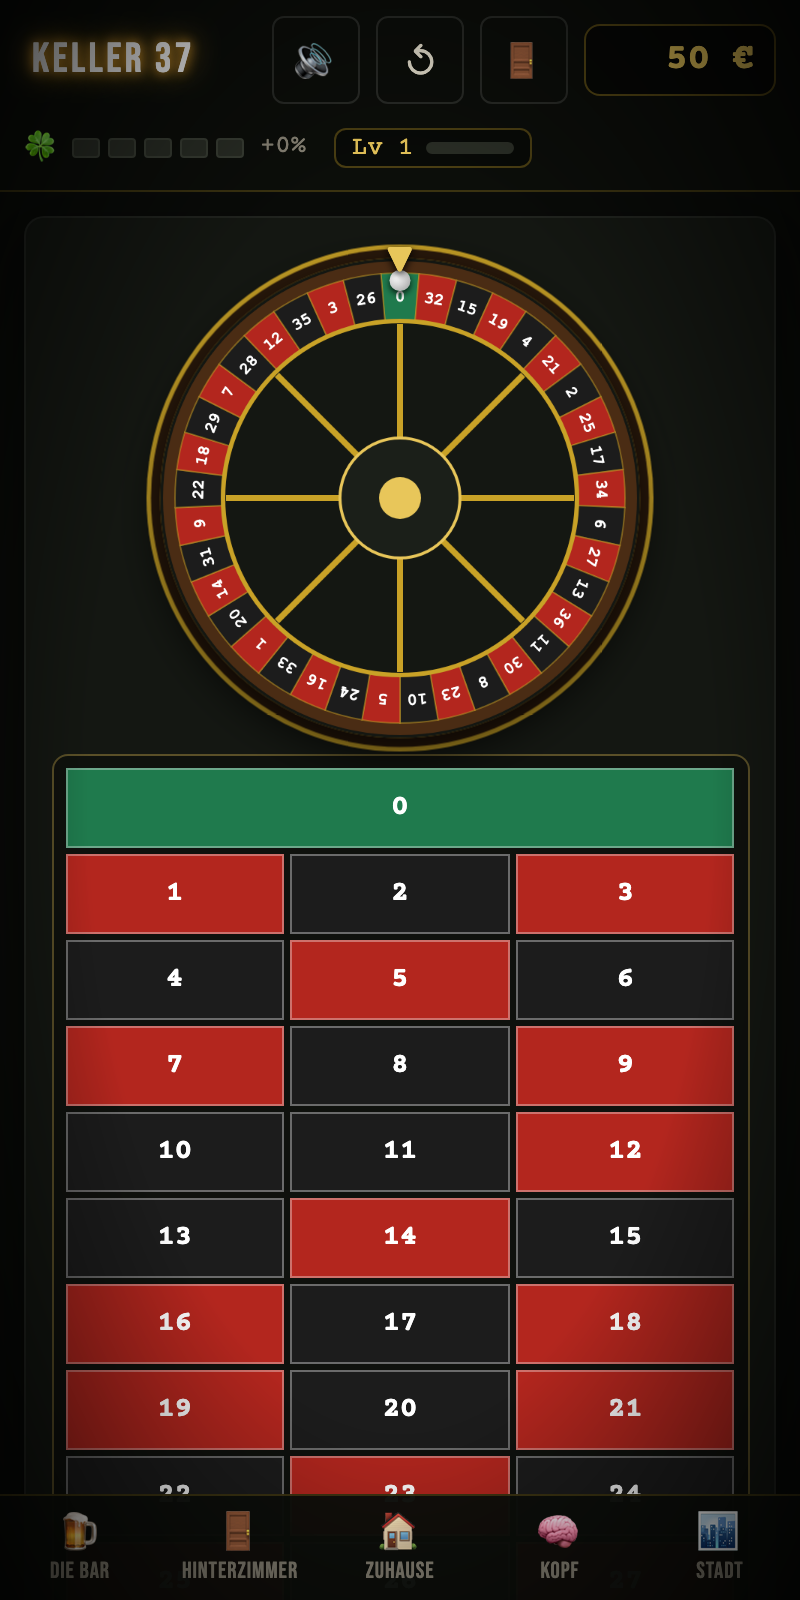
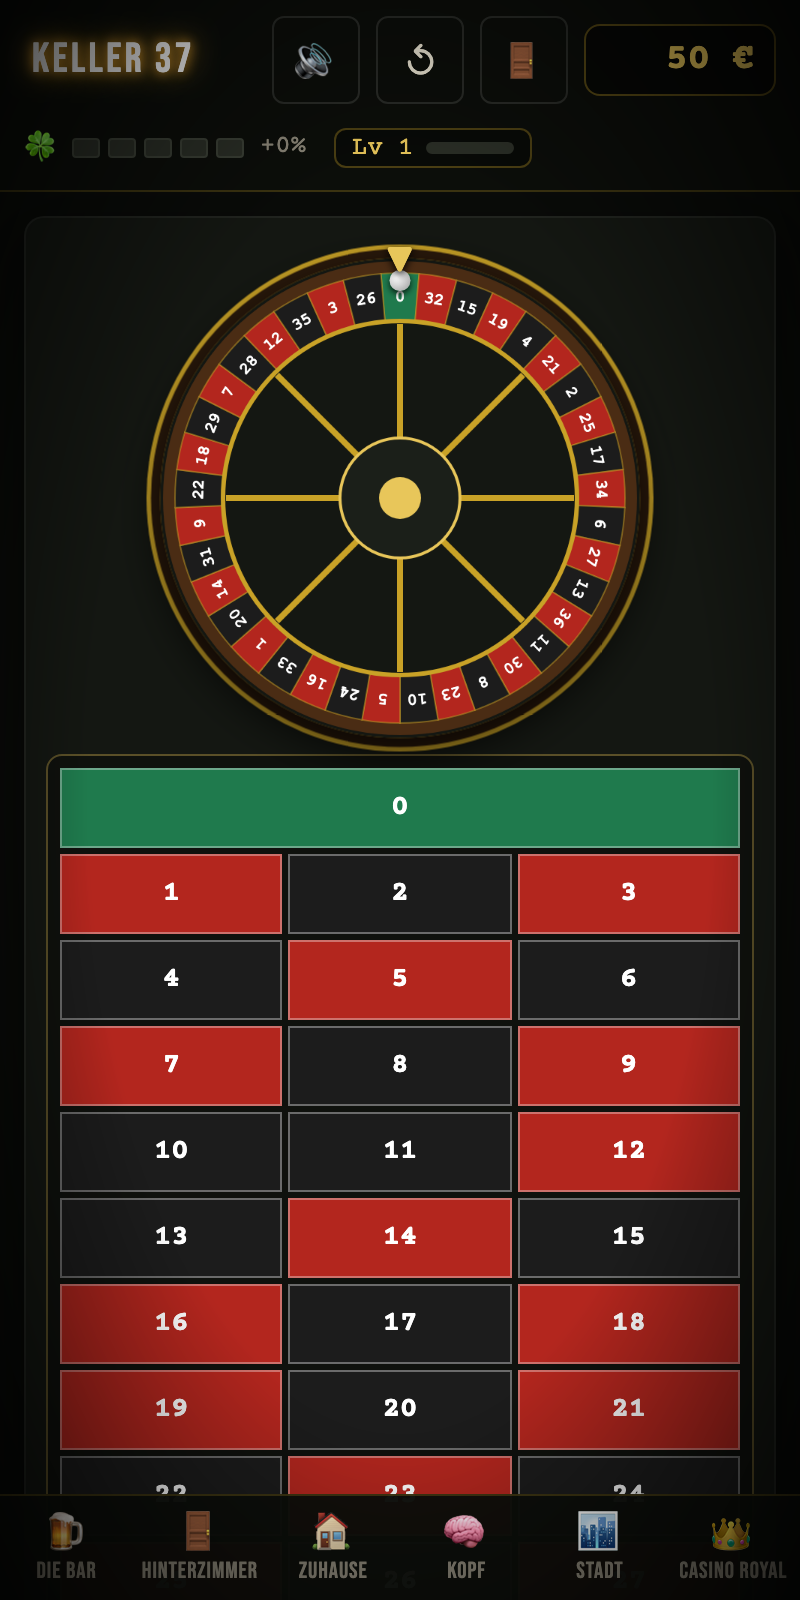
test(royal): Playtest-Szenario Art-déco-Paket, Zonen-Check, Screenshots; docs: README

diff --git a/tests/playtest-story.py b/tests/playtest-story.py
@@ -1594,6 +1594,92 @@ async def _scenario_perks_body(cdp):
     record("insider: Mechaniker zeigt nach Niete Festhalten-Buttons", holds == 3, "holds=%s" % holds)
 
 
+async def scenario_royal_look(cdp):
+    """Art-deco-Paket: Zone + Vorhang beim Betreten/Verlassen, Fassade in drei Zustaenden,
+    Kater-HUD, Freispiel-Banner, Bankrott-Blackout, Goldregen."""
+    # Fassade ohne Auto
+    await cdp.navigate(URL_BASE + "?fresh&mode=free&screen=stadt")
+    await asyncio.sleep(0.8)
+    await cdp.inject_helpers()
+    await cdp.eval("localStorage.removeItem('keller37.meta')", await_promise=False)
+    f = await cdp.eval("(function(){ const f=document.querySelector('.facade'); return f && {locked: f.classList.contains('locked'), sign: f.querySelector('.brass-sign').textContent, doorman: !!f.querySelector('.doorman')}; })()", await_promise=False) or {}
+    record("fassade: ohne Auto gesperrt mit Parkservice-Schild", f.get("locked") and "Parkservice" in (f.get("sign") or "") and not f.get("doorman"), f)
+    # Fassade mit Auto + Zone beim Betreten
+    await cdp.eval("State.s.car = 'audiA3'; State.s.balance = 5000; State.s.flags.royalSeen = true; State.save(); Stadt.render();", await_promise=False)
+    f = await cdp.eval("(function(){ const f=document.querySelector('.facade'); return {locked: f.classList.contains('locked'), sign: f.querySelector('.brass-sign').textContent}; })()", await_promise=False) or {}
+    record("fassade: mit Auto offen, Schild Eintritt 100", not f.get("locked") and "100" in (f.get("sign") or ""), f)
+    zone_before = await cdp.eval("document.body.dataset.zone", await_promise=False)
+    await cdp.eval("document.querySelector('.facade').click()", await_promise=False)
+    await asyncio.sleep(0.15)
+    fade_on = await cdp.eval("document.querySelector('#zonefade').classList.contains('on')", await_promise=False)
+    await cdp.wait_for("UI.current && UI.current.id === 'royal' && !UI.busy", timeout=4.0)
+    zone_after = await cdp.eval("document.body.dataset.zone", await_promise=False)
+    sub = await cdp.eval("getComputedStyle(document.querySelector('#brandSub')).display", await_promise=False)
+    record("zone: Vorhang beim Betreten, Zone royal, Untertitel sichtbar", zone_before == "keller" and fade_on is True and zone_after == "royal" and sub == "block",
+           "before=%s fade=%s after=%s sub=%s" % (zone_before, fade_on, zone_after, sub))
+    portals = await cdp.eval("document.querySelectorAll('.portal').length", await_promise=False)
+    record("lobby: drei Portale", portals == 3, "portals=%s" % portals)
+    # Mega Seven: Freispiel-Banner + Gewinnlinie
+    await cdp.eval("UI.show('megaslots')")
+    mega = await cdp.eval("""(async function(){
+      /* Gewinnlinie 🍒×3 (Reihe 0) + 3 Scatter ⭐ (Reihe 2, Walzen 0-2): sichere Freispiele + eine
+         Gewinnlinie, aber Auszahlung (40 €) bleibt weit unter RoyalRules.GUEST_WIN (5000) -- eine
+         5er-Reihe 7⃣ (wie ursprünglich hier verdrahtet) loest sonst Royal.onWin()/Cutscene('royal.guest')
+         aus, die auf einen Klick wartet und den Test aufhaengt. */
+      RoyalRules.megaRoll = function(){ return [['🍒','💎','⭐'],['🍒','BAR','⭐'],['🍒','🔔','⭐'],['BAR','🍒','7⃣'],['💎','7⃣','BAR']]; };
+      RoyalRules.megaLuckOverride = function(g){ return g; };
+      document.querySelector('#megaBet').value = '100';
+      await MegaSlots.spin();
+      return { banner: document.querySelector('#megaFree').classList.contains('show'), free: MegaSlots.freeLeft,
+               lines: document.querySelectorAll('#megaLinesSvg polyline').length, cls: document.querySelector('.mega-machine').classList.contains('free') };
+    })()""")
+    record("mega: Freispiel-Banner und goldene Gewinnlinie", mega and mega.get("banner") and mega.get("free", 0) > 0 and mega.get("lines", 0) >= 1 and mega.get("cls"), mega)
+    # Glücksrad: Bankrott -> Blackout-Klasse + Sylvie-Toast
+    # Die Blackout-Klasse liegt nur zwischen dem 4.6s-Dreh-Wait und dem 900ms-Timeout danach an
+    # (~4.6-5.5s); ein einzelner fester sleep(4.8) traf dieses Fenster unter Last (viele vorige
+    # Szenarien im selben Tab) nicht zuverlässig -- daher wird gepollt statt einmalig geprueft.
+    await cdp.eval("UI.show('wheel')")
+    await cdp.eval("""(function(){
+      RoyalRules.wheelSpin = function(){ return 0; };
+      RoyalRules.wheelLuckOverride = function(i){ return i; };
+      document.querySelector('#wheelBet').value = '100';
+      window.__wheelSpin = Wheel.spin();
+    })()""", await_promise=False)
+    black = await cdp.wait_for("document.querySelector('.wheel-panel').classList.contains('blackout')", timeout=8.0)
+    toast = await cdp.eval("document.querySelector('#toasts').textContent.includes('Das Haus dankt')", await_promise=False)
+    seg = await cdp.eval("document.querySelector('.wheel .seg.bust') !== null", await_promise=False)
+    await cdp.eval("window.__wheelSpin", timeout=10)
+    wheel = {"black": black, "toast": toast, "seg": seg}
+    record("wheel: Bankrott dunkelt ab, Sylvie-Toast, Bust-Segmente", wheel and wheel.get("black") and wheel.get("toast") and wheel.get("seg"), wheel)
+    # Goldregen + zurueck in die Stadt = Zone keller
+    rain = await cdp.eval("Royal.goldRain(); document.querySelectorAll('.gold-drop').length", await_promise=False)
+    record("royal: Goldregen erzeugt Partikel", (rain or 0) >= 12, "drops=%s" % rain)
+    await cdp.eval("UI.show('royal')")
+    await cdp.click("#royalLeave")
+    await cdp.wait_for("UI.current && UI.current.id === 'stadt' && !UI.busy", timeout=4.0)
+    zone_back = await cdp.eval("document.body.dataset.zone", await_promise=False)
+    record("zone: zurueck in die Stadt = keller", zone_back == "keller", "zone=%s" % zone_back)
+    # Kater-HUD + Zitter + Tuersteher
+    await cdp.navigate(URL_BASE + "?fresh&story=kater&prev=doc&day=5")
+    await asyncio.sleep(1.2)
+    await cdp.inject_helpers()
+    await cdp.advance_cutscene(max_steps=30)
+    hud = await cdp.eval("""(function(){
+      Story.s.vars.leber = 25; Story.s.vars.pegel = 2; Story.s.vars.deckel = 250; Story.s.flags.zitter = true; State.s.car = 'audiA3'; State.save(); UI.renderWallet();
+      const bar = document.querySelector('.hud-leber .fill'); const kr = document.querySelectorAll('.hud-pegel .krug.on').length;
+      return { width: bar && bar.style.width, danger: !!document.querySelector('.hud-leber.danger'), kruege: kr,
+               marks: (document.querySelector('.hud-deckel .coaster') || {}).textContent, zitter: document.body.classList.contains('zitter'),
+               note: document.querySelector('#notes').textContent.includes('Zittern') };
+    })()""", await_promise=False) or {}
+    record("kater-hud: Leber 25 rot, 2 Kruege, 5 Striche, Zittern", hud.get("width") == "25%" and hud.get("danger") and hud.get("kruege") == 2 and hud.get("zitter") and hud.get("note") and len(hud.get("marks") or "") >= 1, hud)
+    # Nach dem Intro laeuft der Tag-1-Morgen (einrichten/niereWeg) noch fire-and-forget bis zur
+    # Pinnwand (UI.busy bleibt bis dahin true) -- UI.show() ist ein No-Op solange busy, also erst warten
+    await cdp.wait_for("!UI.busy && !__pt.cutsceneActive()", timeout=5.0)
+    await cdp.eval("UI.show('stadt')")
+    door = await cdp.eval("(function(){ const f=document.querySelector('.facade'); return f && {gated: f.classList.contains('gated'), doorman: !!f.querySelector('.doorman'), txt: (f.querySelector('.doorman')||{}).textContent}; })()", await_promise=False) or {}
+    record("fassade: Zitter-Tag zeigt Tuersteher", door.get("gated") and door.get("doorman") and "zittern" in (door.get("txt") or "").lower(), door)
+
+
 async def main():
     cdp = CDP()
     cdp.launch(mobile=MOBILE)
@@ -1616,6 +1702,7 @@ async def main():
         await scenario_free_sandbox_unchanged(cdp)
         await scenario_stadt_shop(cdp)
         await scenario_royal_free(cdp)
+        await scenario_royal_look(cdp)
         await scenario_kater(cdp)
         await scenario_mugging(cdp)
         await scenario_story_stadt(cdp)

diff --git a/tests/mobile-check.py b/tests/mobile-check.py
@@ -118,6 +118,14 @@ async def main():
         """, await_promise=False) or {}
         record("tabs: alle mit Icon, eine Zeile, >= 52 px", t.get("n", 0) >= 4 and t.get("icons") == t.get("n") and t.get("oneRow") and t.get("h", 0) >= 52, t)
 
+        # Zone: Royal-Screens setzen body[data-zone=royal], Keller-Screens keller
+        zones = {}
+        for sc in ["hub", "royal", "craps", "megaslots", "wheel", "stadt"]:
+            await cdp.navigate(URL + "?fresh&mode=free&screen=" + sc, wait=1.2)
+            zones[sc] = await cdp.eval("document.body.dataset.zone", await_promise=False)
+        record("zone: Royal-Screens royal, Keller-Screens keller",
+               all(zones[k] == "royal" for k in ["royal", "craps", "megaslots", "wheel"]) and zones["hub"] == "keller" and zones["stadt"] == "keller", zones)
+
         # Story: Pinnwand + Tagesleiste
         await cdp.navigate(URL + "?fresh&story=schuld&day=1", wait=2.0)
         await cdp.inject_helpers()

diff --git a/README.md b/README.md
@@ -11,7 +11,8 @@ Ein satirisches Casino-Lebenssimulations-Spiel in einer einzigen HTML-Datei. Fü
 - **Kredite:** Bank (8 % Zinsen pro Spin, Limit 3.000 €, nur ein Kredit auf einmal) oder Don Vito (5 Spins Frist, danach der Doc).
 - **Anlagen:** Festgeld +8 % nach 6 Spins (10 % Risiko), Aktien +100 % nach 2 Spins (85 %), Trickbetrug +50 % nach 10 Spins (55 %) – je Sorte eine laufende Anlage.
 - **Stadt:** Autohaus (Audi-Linie senkt das Überfallrisiko und erhöht die Fluchtchance, Mercedes-Linie hebt Bank-Limit und senkt die Zinsen) und INTERSPORT (Laufschuhe verbessern die Flucht, bringen mehr Zeit/Lohn beim Postboten und helfen bei den Job-Minispielen). Ein neues Auto nimmt das alte mit 50 % seines Preises in Zahlung, Schuhe gibt es nur zum vollen Preis.
-- **Casino Royal:** am Ende der Straße, nur mit Auto (Parkservice). Eintritt 100 € – bis zum ersten Einzelgewinn ab 5.000 €, dann bist du Gast des Hauses. Drei Tische mit höheren Einsätzen: **Mega Seven** (5 Walzen, 5 Linien, Freispiele ×2), **Craps** (Pass Line und Field, jeder Wurf ein Spin) und das **Glücksrad** (24 Felder, ×10 bis Bankrott). Madame Sylvie sieht alles.
+- **Casino Royal:** am Ende der Straße, nur mit Auto (Parkservice). Eintritt 100 € – bis zum ersten Einzelgewinn ab 5.000 €, dann bist du Gast des Hauses. Drei Tische mit höheren Einsätzen: **Mega Seven** (5 Walzen, 5 Linien, Freispiele ×2), **Craps** (Pass Line und Field, jeder Wurf ein Spin) und das **Glücksrad** (24 Felder, ×10 bis Bankrott). Madame Sylvie sieht alles. Ein anderer Ort: Art déco in Gold und Schwarz – beim Betreten wechselt die ganze Seite (Kopfzeile, Seitenleiste, Chips) hinter einem Gold-Vorhang, die Lobby ist ein Foyer mit drei Portalen, Mega Seven zeichnet Gewinnlinien in Gold und klappt bei Freispielen ein Banner aus, Craps markiert Einsätze mit Chip-Stapeln, das Glücksrad hat Zahnkranz, Lauflichter und beim Bankrott gehen kurz die Lichter aus. In der Stadt steht die Fassade mit Marquee, Messingschild und – am Zitter-Tag – einem Türsteher.
+- **Kater-HUD (Story 2):** Leber als Balken (grün → gelb → rot, pulsiert ab 30), Pegel als drei Bierkrüge, Deckel als Bierdeckel mit Strichliste; am Zitter-Tag zittern Kontostand und Krüge, ein roter Zettel zeigt −15 Glück, das erste Bier beendet es („Ruhige Hände.").
 - **Überfälle & Stärke:** auf dem Weg in den Keller kann es einen Überfall geben – Kämpfen, Wegrennen oder Zahlen. Ein Kampf (gewonnen oder verloren) erhöht 💪 Stärke; Stärke verbessert die Kampfchance und den Türsteher-Bonus, schaltet den Job „Eintreiber" frei und macht ab 10 gefürchtet (seltener Ziel für Überfälle).
 - **Cutscenes:** 33 Visual-Novel-Szenen mit 14 Charakteren, Typewriter-Text, Entscheidungen und Effekten.
 - **Extras:** synthetisierter Sound (Web Audio, keine Dateien), Spielstand in `localStorage`, Game Over mit Statistik, Trophäen, Reduced-Motion.
@@ -104,9 +105,10 @@ node tests/run-selftest.mjs         # Node-Selbsttest (freies Spiel + Story-Engi
 tests/dom-selftest.sh               # derselbe Selbsttest headless in Chrome (macOS)
 tests/screenshot.sh out.png "?screen=roulette"
 python3 tests/playtest-story.py     # CDP-Playtest Story-Modus (Chrome, Port 9335)
+python3 tests/desktop-diff.py       # Keller-Screens pixelidentisch zu main? (1280×900, Pillow)
 python3 tests/mobile-check.py       # Handy-Ansicht 400×800: Screenshots + Layout-Checks (Port 9361)
 ```
 
-`K37_PORT`, `K37_PROFILE`, `K37_SHOTS` überschreiben Port, Chrome-Profilordner und Screenshot-Ordner des Playtests (Default wie oben) – nützlich, um mehrere Läufe parallel zu isolieren. `mobile-check.py` prüft pro Screen horizontale Überbreite und Tap-Ziele ≥ 40 px, dazu Roulette-Tisch, Einsatz-Leiste, Tab-Leiste, Header-Einklappen und als Gegenprobe den Desktop-Tisch; Screenshots landen in `/tmp/k37mobile` (bzw. `K37_SHOTS`).
+`K37_PORT`, `K37_PROFILE`, `K37_SHOTS` überschreiben Port, Chrome-Profilordner und Screenshot-Ordner des Playtests (Default wie oben) – nützlich, um mehrere Läufe parallel zu isolieren. `mobile-check.py` prüft pro Screen horizontale Überbreite und Tap-Ziele ≥ 40 px, dazu Roulette-Tisch, Einsatz-Leiste, Tab-Leiste, Header-Einklappen, als Gegenprobe den Desktop-Tisch und den Zonen-Wechsel (Royal/Keller); Screenshots landen in `/tmp/k37mobile` (bzw. `K37_SHOTS`).
 
 `Gamble Game.html` ist das Original, aus dem die Mechanik 1:1 übernommen wurde. Spec, Plan, Abnahme-Checkliste und Screenshots liegen unter `docs/superpowers/`.
